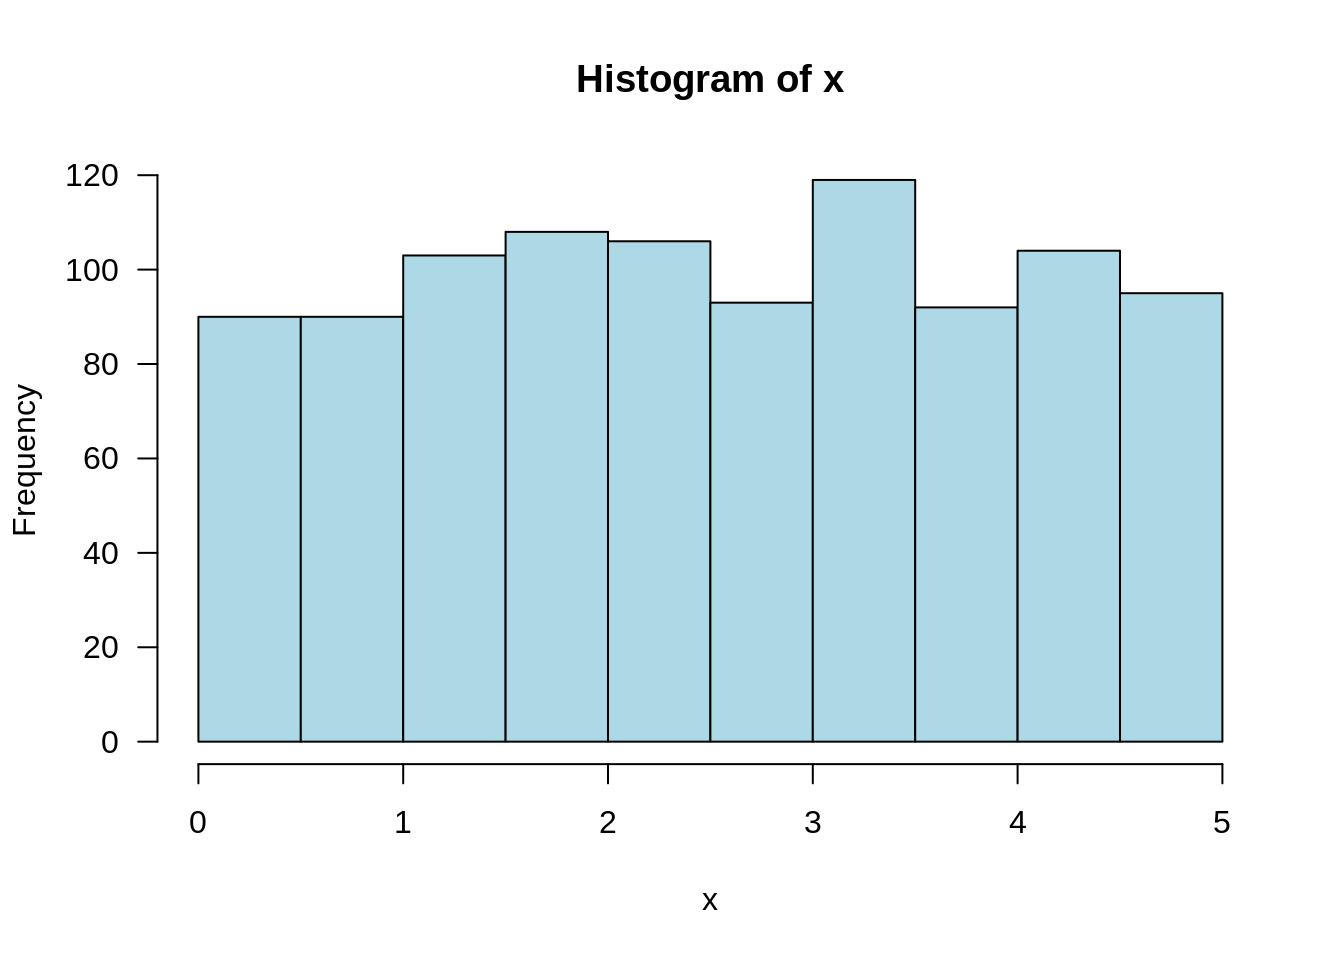
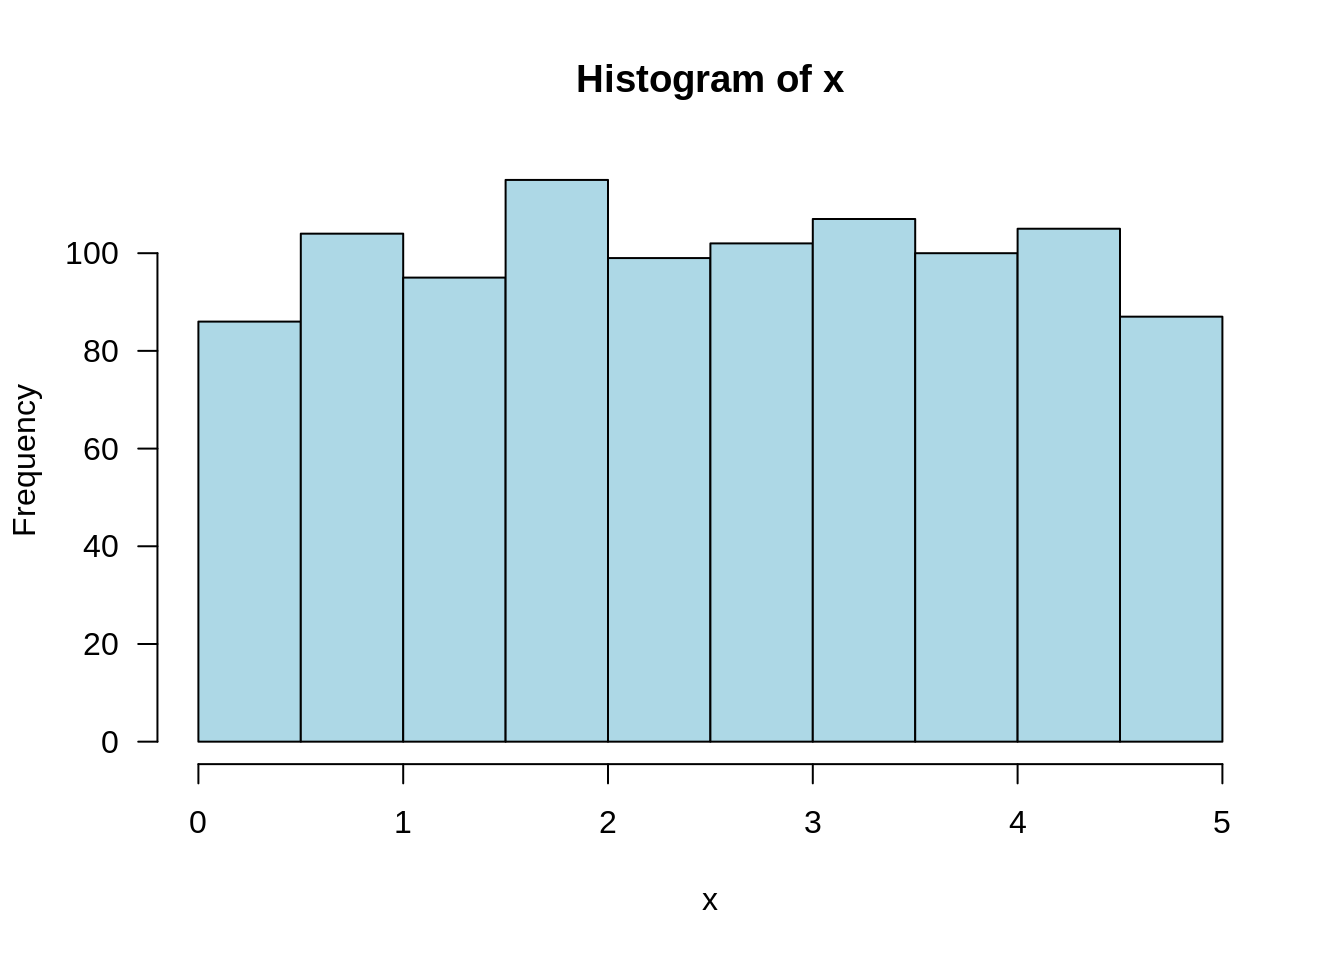
jtr13 published a site update

diff --git a/ch-4-continuous-random-variables-and-probability-distributions.html b/ch-4-continuous-random-variables-and-probability-distributions.html
@@ -276,11 +276,11 @@ code span.wa { color: #60a0b0; font-weight: bold; font-style: italic; } /* Warni
 <p>Randomly choose one number from the distribution:</p>
 <p><span class="math inline">\(f(x) = .2\)</span> for <span class="math inline">\(0 \leq x \leq 5\)</span>, 0 otherwise.</p>
 <div class="sourceCode" id="cb151"><pre class="sourceCode r"><code class="sourceCode r"><span id="cb151-1"><a href="ch-4-continuous-random-variables-and-probability-distributions.html#cb151-1"></a><span class="kw">runif</span>(<span class="dt">n =</span> <span class="dv">1</span>, <span class="dt">min =</span> <span class="dv">0</span>, <span class="dt">max =</span> <span class="dv">5</span>)</span></code></pre></div>
-<pre><code>## [1] 0.2397275</code></pre>
+<pre><code>## [1] 4.881535</code></pre>
 <p>Take the average of 1000 picks:</p>
 <div class="sourceCode" id="cb153"><pre class="sourceCode r"><code class="sourceCode r"><span id="cb153-1"><a href="ch-4-continuous-random-variables-and-probability-distributions.html#cb153-1"></a>x &lt;-<span class="st"> </span><span class="kw">runif</span>(<span class="dt">n =</span> <span class="dv">1000</span>, <span class="dt">min =</span> <span class="dv">0</span>, <span class="dt">max =</span> <span class="dv">5</span>)</span>
 <span id="cb153-2"><a href="ch-4-continuous-random-variables-and-probability-distributions.html#cb153-2"></a><span class="kw">mean</span>(x)</span></code></pre></div>
-<pre><code>## [1] 2.530987</code></pre>
+<pre><code>## [1] 2.513705</code></pre>
 <p>Draw a histogram of the 1000 picks:</p>
 <div class="sourceCode" id="cb155"><pre class="sourceCode r"><code class="sourceCode r"><span id="cb155-1"><a href="ch-4-continuous-random-variables-and-probability-distributions.html#cb155-1"></a><span class="kw">hist</span>(x, <span class="dt">las =</span> <span class="dv">1</span>, <span class="dt">col =</span> <span class="st">&quot;lightblue&quot;</span>)</span></code></pre></div>
 <p><img src="STAT1201-resource_files/figure-html/unnamed-chunk-41-1.png" width="672" /></p>
